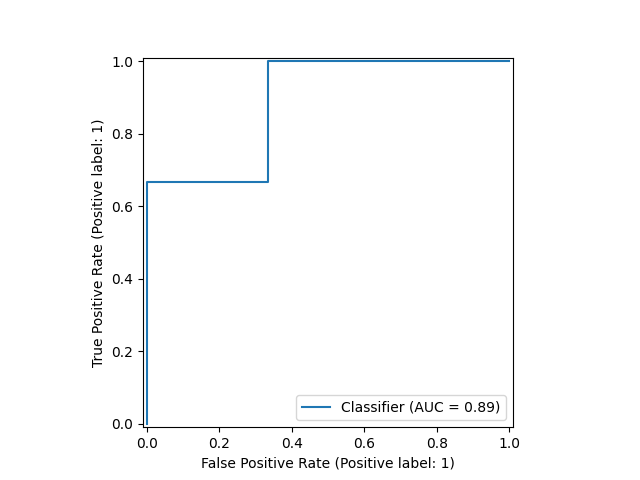
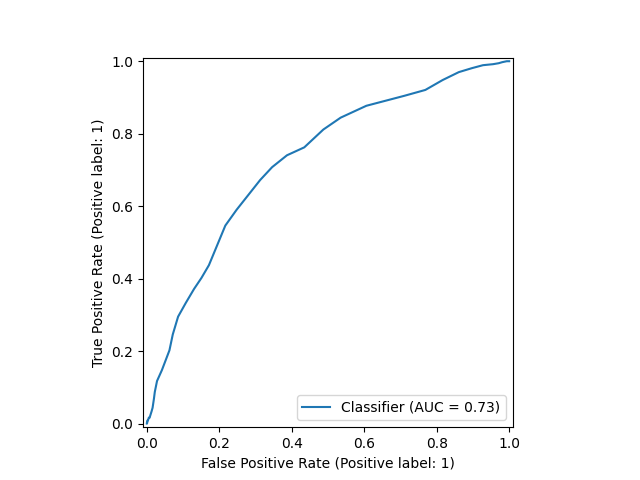
Roc

diff --git a/class_exercises/30-economic_news.py b/class_exercises/30-economic_news.py
@@ -1,3 +1,5 @@
+from matplotlib import pyplot as plt
+
 import pandas as pd
 
 from sklearn.metrics import classification_report
@@ -6,6 +8,11 @@ from sklearn.pipeline import make_pipeline
 from sklearn.feature_extraction.text import CountVectorizer, TfidfTransformer
 from sklearn.naive_bayes import BernoulliNB, MultinomialNB
 from sklearn.linear_model import RidgeClassifierCV
+from sklearn.metrics import RocCurveDisplay, PrecisionRecallDisplay
+from sklearn.linear_model import LogisticRegression
+from sklearn.preprocessing import StandardScaler
+from sklearn.ensemble import RandomForestClassifier
+
 
 if __name__ == "__main__":
 
@@ -16,7 +23,7 @@ if __name__ == "__main__":
 
     X_train, X_test, y_train, y_test = train_test_split(X, y, random_state=42)
 
-    model = make_pipeline(CountVectorizer(), TfidfTransformer(), RidgeClassifierCV())
+    model = make_pipeline(CountVectorizer(ngram_range=(1,3)), TfidfTransformer(), RandomForestClassifier(n_jobs=-1))
 
     model.fit(X_train, y_train)
 
@@ -24,3 +31,14 @@ if __name__ == "__main__":
     y_hat_test = model.predict(X_test)
 
     print(classification_report(y_true=y_test, y_pred=y_hat_test))
+
+
+    y_score_test = model.predict_proba(X_test)[:, 1]
+
+    print(y_hat_test)
+    print(y_score_test)
+
+    RocCurveDisplay.from_predictions(y_true=y_test, y_score=y_score_test)
+    plt.savefig("roc.png")
+
+
